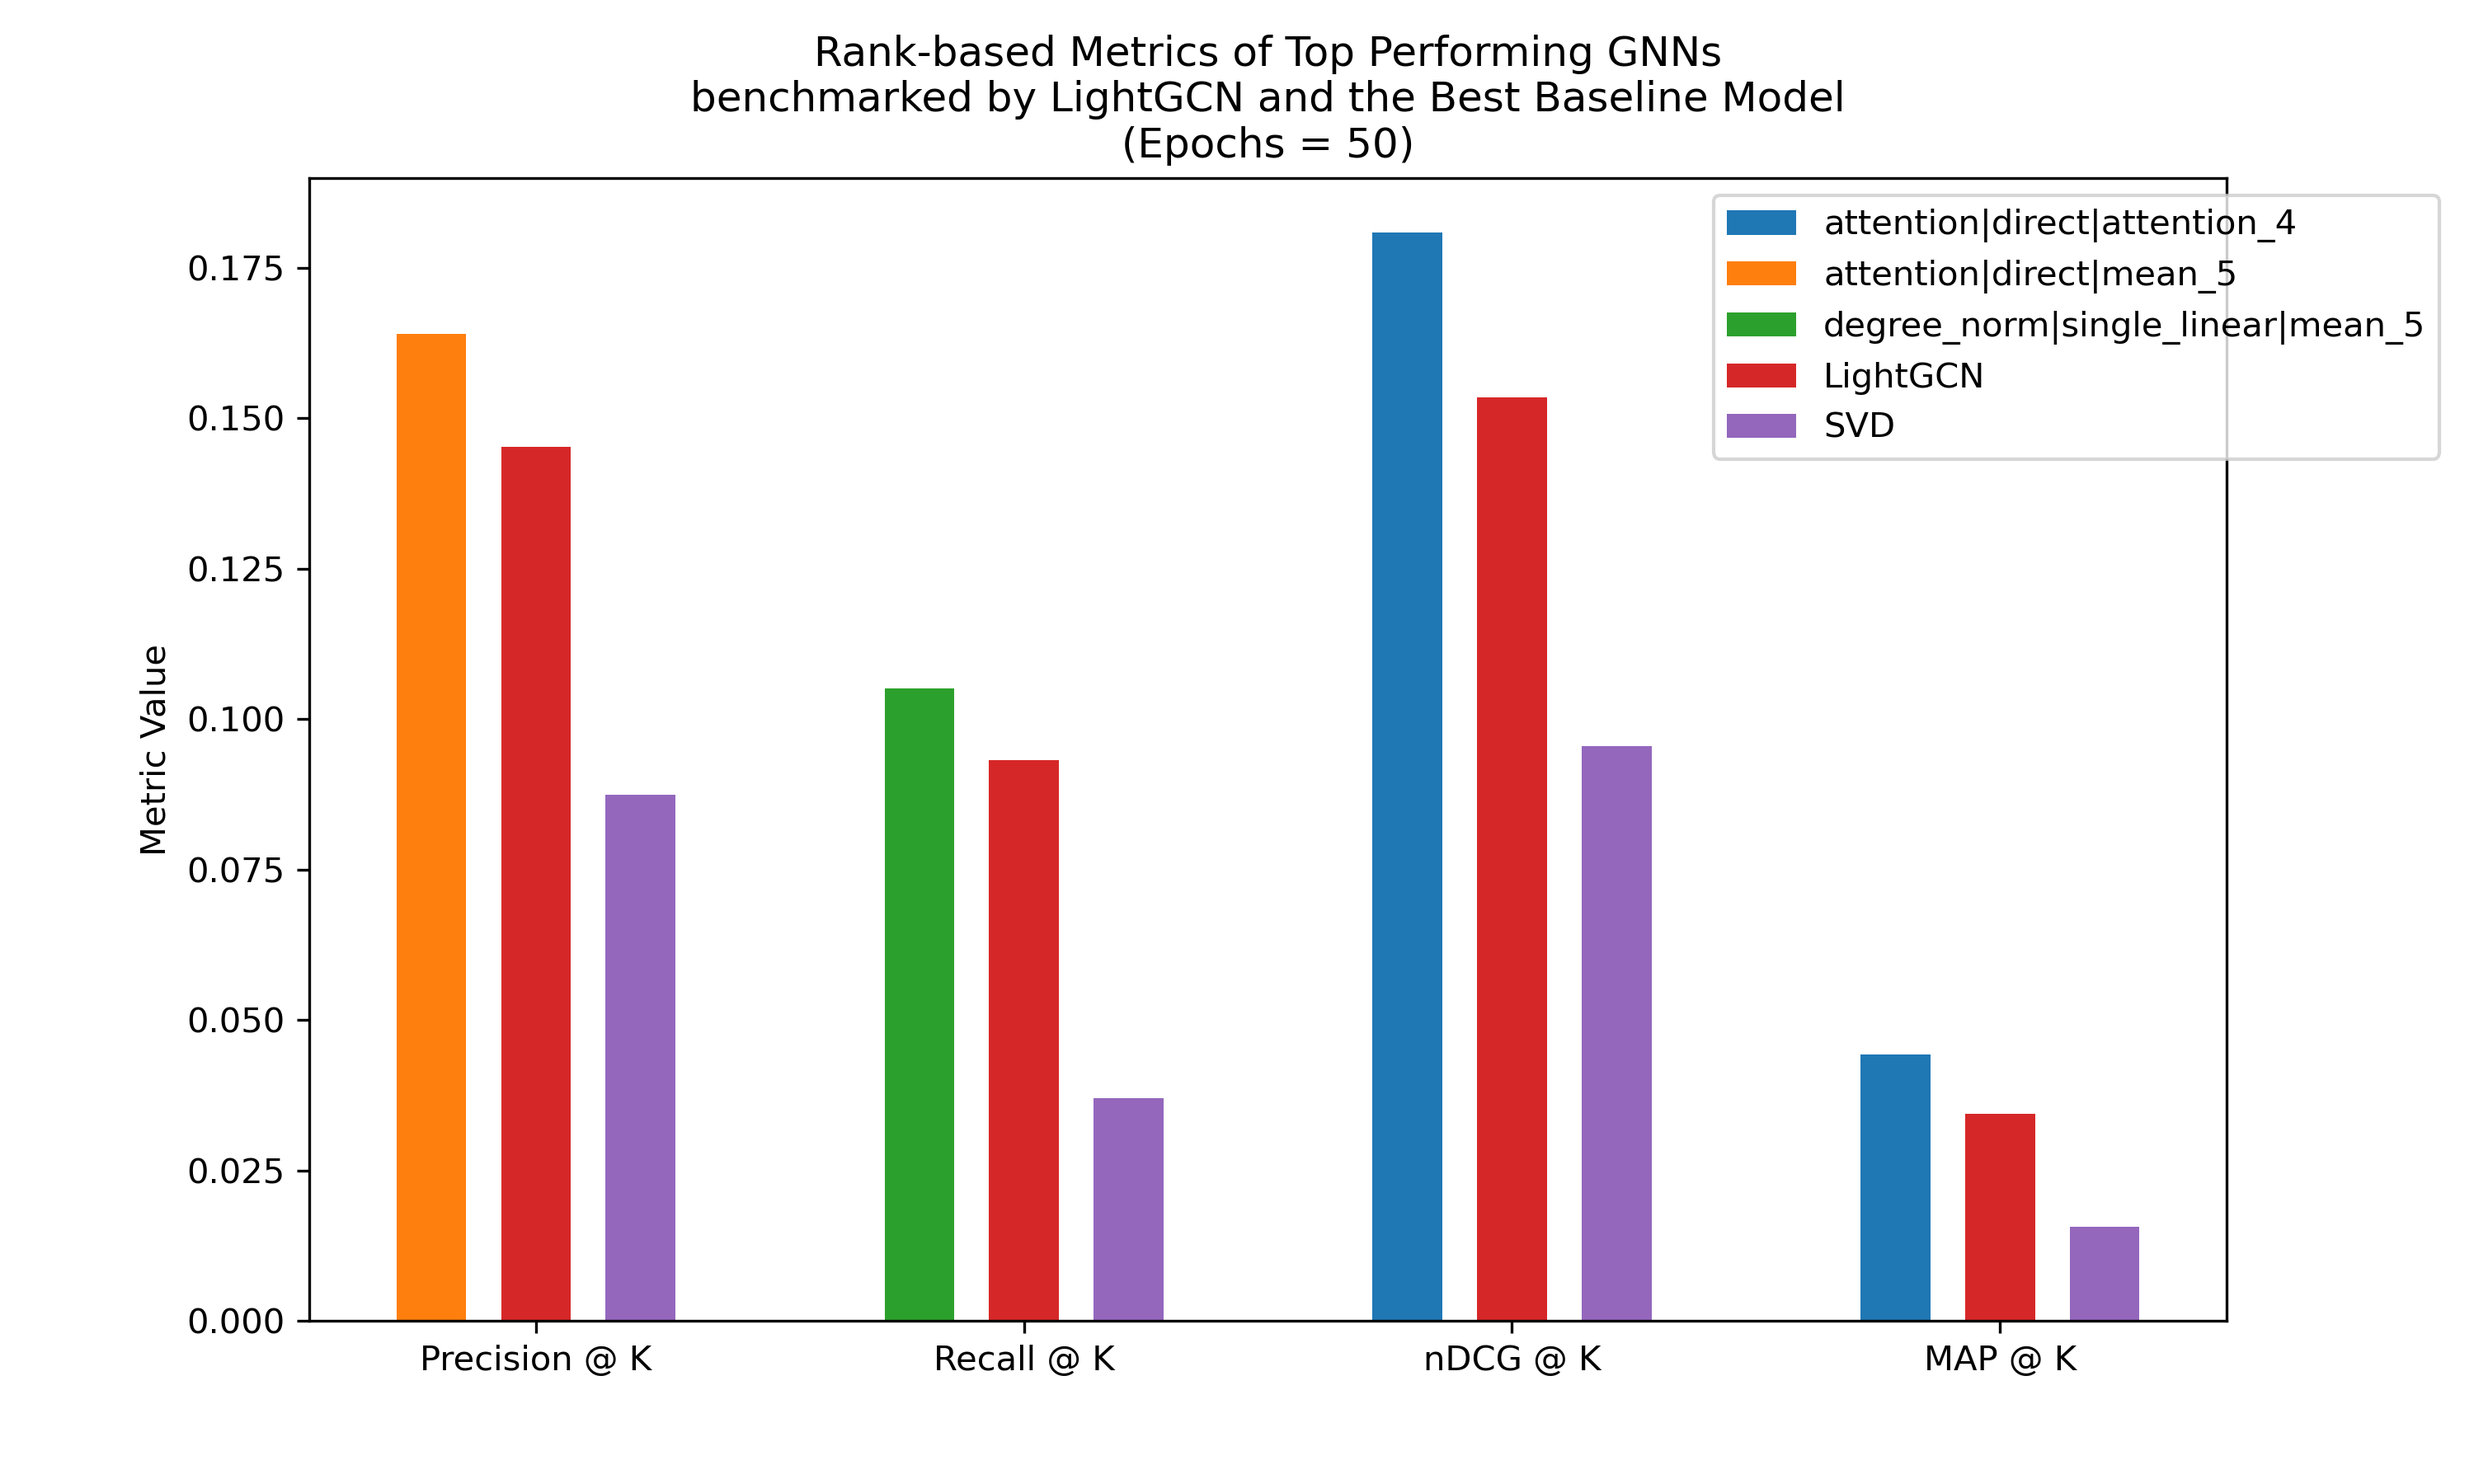
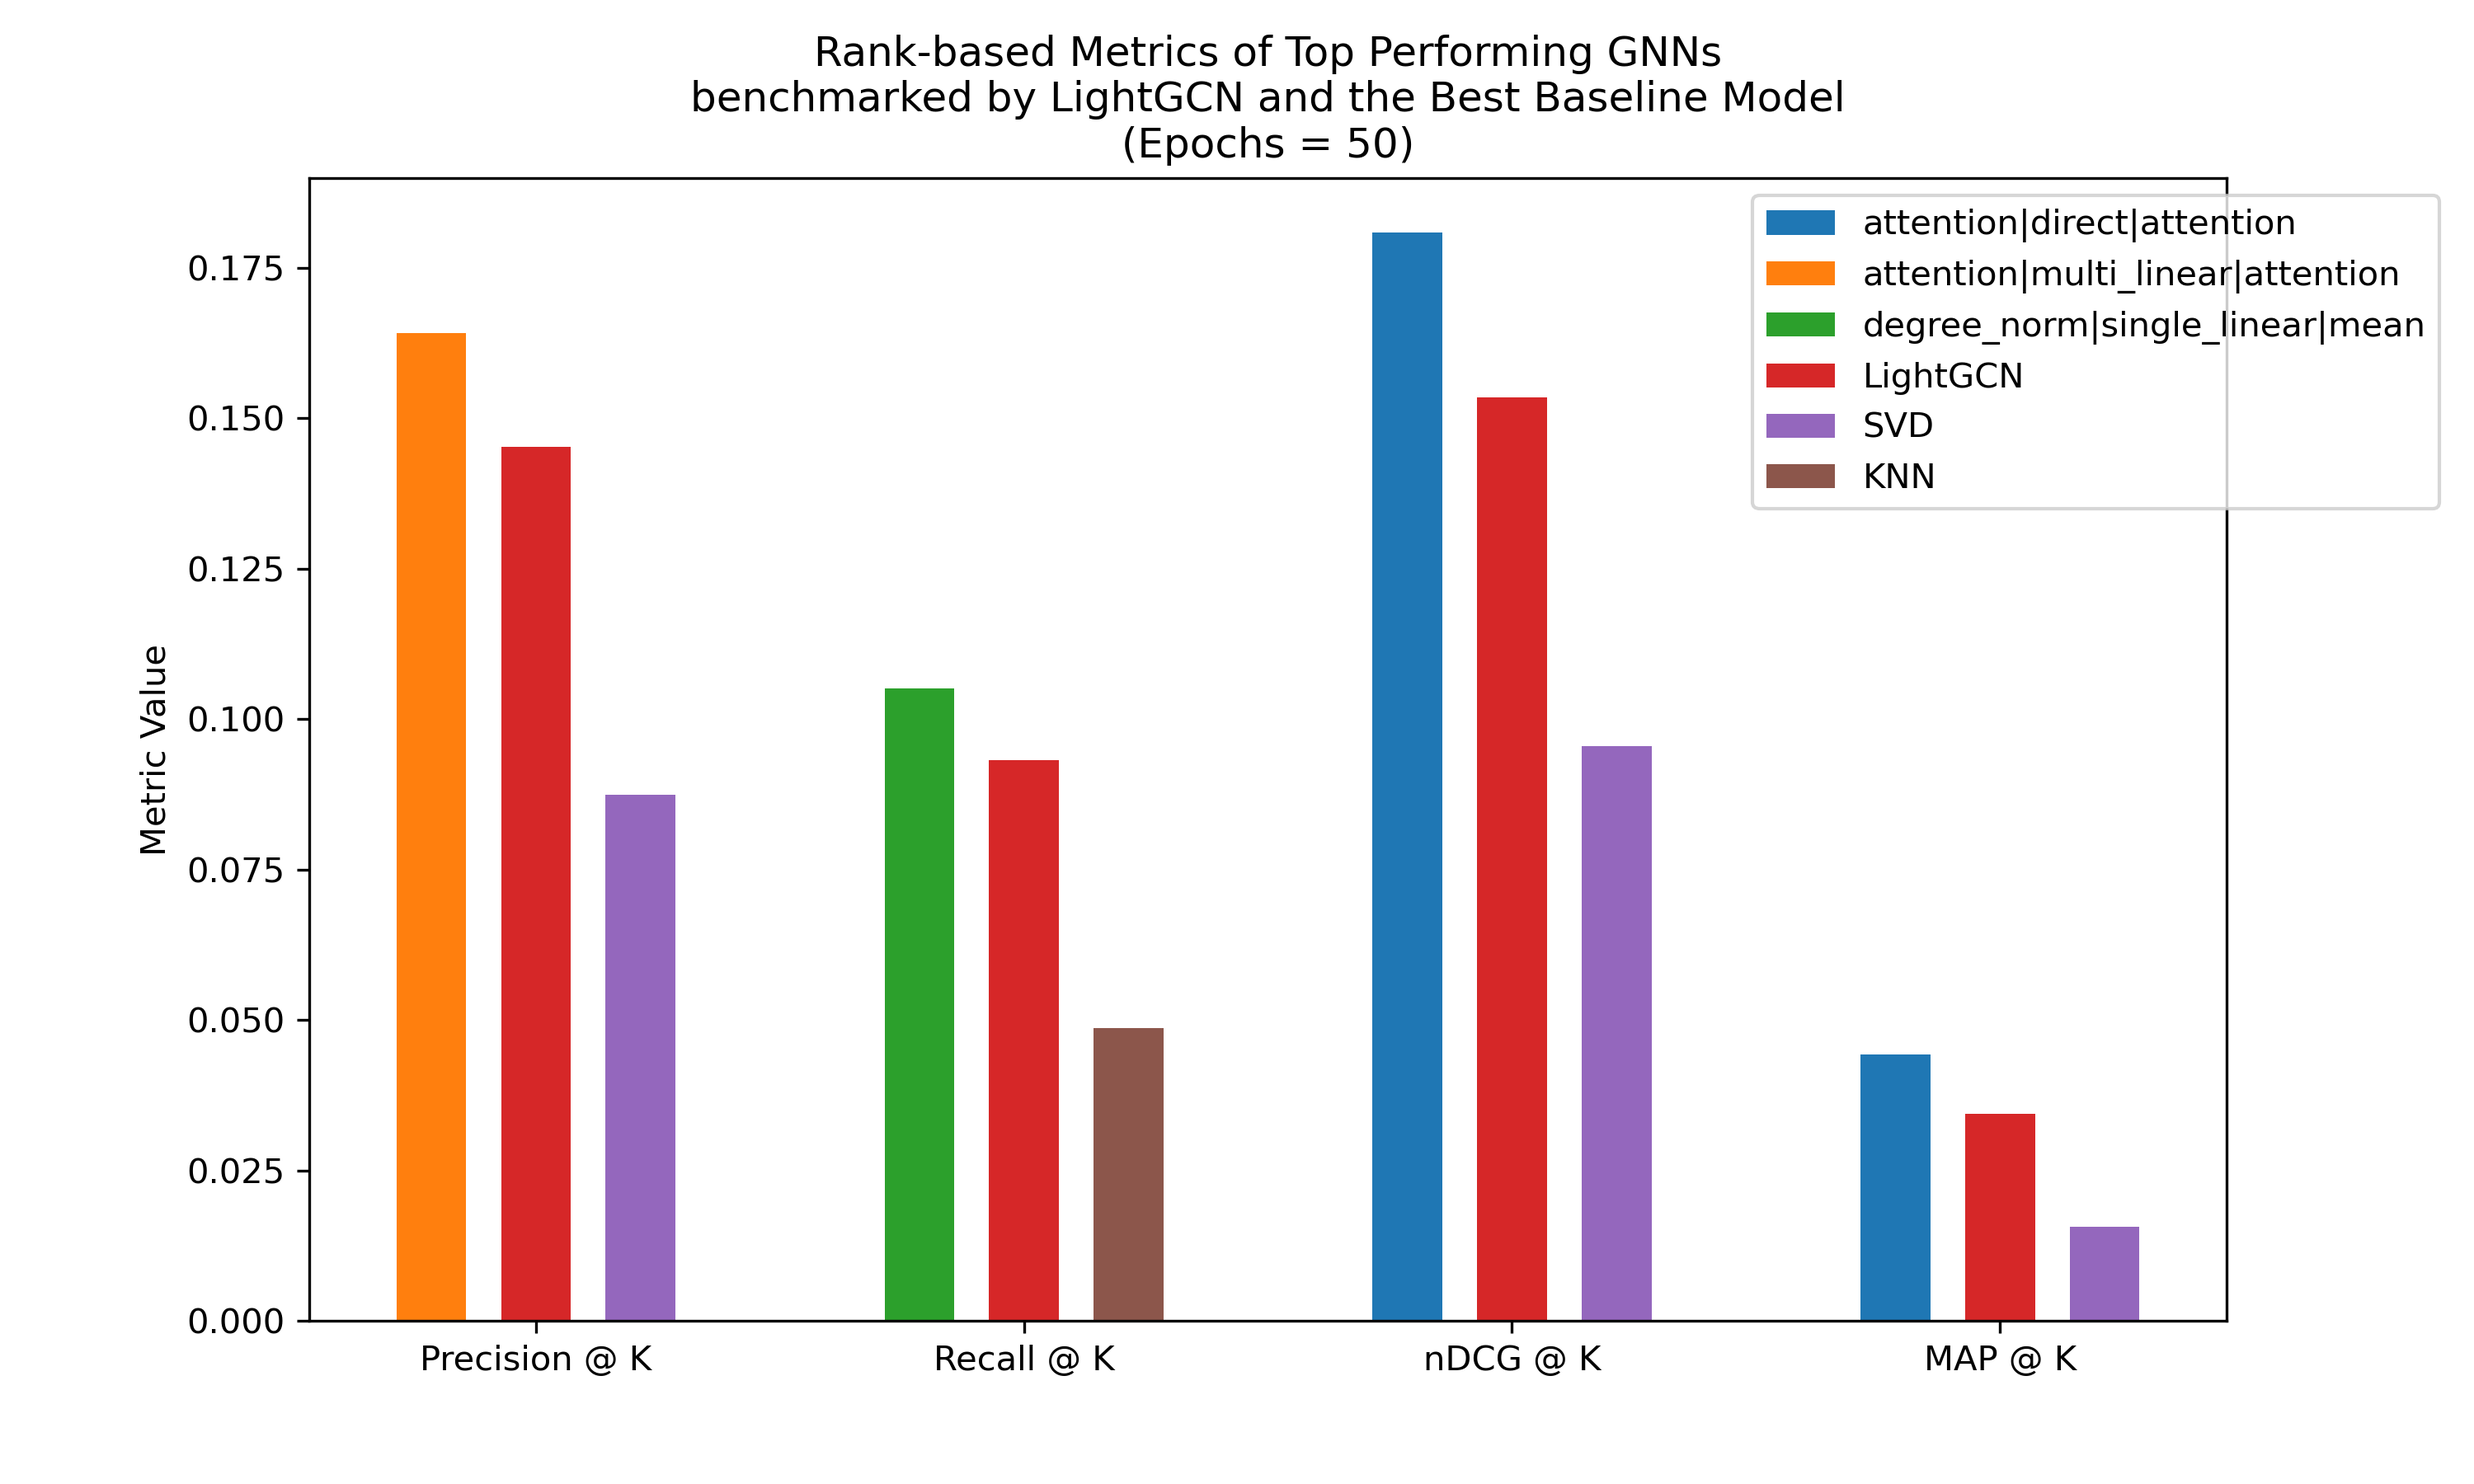
Implement plotting the best GNN alongside LightGCN and baseline & Minor visual improvements

Changed region(s): [[0.682, 0.1244, 0.992, 0.3422], [0.434, 0.6844, 0.496, 0.9022]]

diff --git a/gnn/plot.py b/gnn/plot.py
@@ -8,6 +8,13 @@ from heapq import heappush, heappop
 from copy import deepcopy
 
 
+_METRIC_DISPLAY_NAMES = ['Precision @ K', 'Recall @ K', 'nDCG @ K', 'MAP @ K']
+_METRIC_NAMES = ['precision', 'recall', 'ndcg', 'map']
+_METRIC_2_IDX = {name: idx for idx, name in enumerate(_METRIC_NAMES)}
+
+BASELINES = ['SVD', 'NMF', 'SlopeOne', 'KNNBa', 'NormalPredictor']
+
+
 def load_metrics(metrics_dir):
     metrics_files = [f for f in os.listdir(metrics_dir) if os.path.isfile(os.path.join(metrics_dir, f)) and f.endswith(".metrics")]
     model_2_metrics = {}
@@ -44,7 +51,6 @@ def get_best_baseline(model_2_metrics: Dict[str, Dict[str, float]]):
     """
     Returns a dict mapping from metric names to the best baseline model
     """
-    BASELINES = ['SVD', 'NMF', 'SlopeOne', 'KNNBasic', 'NormalPredictor']
     metric_2_best_baseline = dict()
     for model_name, metrics in model_2_metrics.items():
         if model_name in BASELINES:
@@ -73,6 +79,78 @@ def _ensure_and_get_unique_epoch(model_2_metrics: Dict[str, Dict[str, float]]):
     return unqiue_epoch
 
 
+def plot_best_models_and_baselines(
+    model_2_metrics: Dict[str, Dict[str, float]],
+    save_path=None
+):
+    model_2_metrics = deepcopy(model_2_metrics) # defensive copy
+    unique_epochs = _ensure_and_get_unique_epoch(model_2_metrics)
+    
+    x = np.arange(len(_METRIC_NAMES)) * 7  # the metric locations
+    metric_width = 2  # the width of each metric
+    bar_width = 1
+    
+    metric_2_best_model = get_top_models(model_2_metrics, n=1)
+    best_models = set([
+        model_name for _, [model_name] in metric_2_best_model.items()
+    ])
+    metric_2_all_best_models = defaultdict(list)
+    for best_model in best_models:
+        for metric_name in _METRIC_NAMES:
+            metric_2_all_best_models[metric_name].append(
+                (model_2_metrics[best_model][metric_name], best_model)
+            )
+    metric_2_sorted_models = {
+        metric_name: [model for _, model in sorted(models, key=lambda x: x[0], reverse=True)]
+        for metric_name, models in metric_2_all_best_models.items()
+    }
+    
+    fig, ax = plt.subplots()
+    fig.set_size_inches(10, 6)
+
+    delta = np.linspace(-metric_width, metric_width, len(best_models) + 2)
+    # plot the best models
+    colors = ['red', 'violet', 'blue']
+    for i, best_model in enumerate(best_models):
+        ax.bar(
+            x + np.array([delta[metric_2_sorted_models[metric_name].index(best_model)] for metric_name in _METRIC_NAMES]),
+            [model_2_metrics[best_model][metric_name] for metric_name in _METRIC_NAMES],
+            width=bar_width,
+            label=best_model[:-2],
+            color=colors[i]
+        )
+    # plot LightGCN
+    ax.bar(
+        x + delta[len(best_models)],
+        [model_2_metrics['degree_norm|direct|mean'][name] for name in _METRIC_NAMES],
+        width=bar_width,
+        label='LightGCN',
+        color='wheat'
+    )
+    # plot the best baseline
+    metric_2_best_baseline = get_best_baseline(model_2_metrics)
+    best_baseline_2_metrics = defaultdict(dict)
+    for metric_name, best_baseline in metric_2_best_baseline.items():
+        best_baseline_2_metrics[best_baseline][metric_name] = model_2_metrics[best_baseline][metric_name]
+    colors = ['lightgrey', 'darkgrey']
+    for i, (best_baseline, metrics) in enumerate(best_baseline_2_metrics.items()):
+        ax.bar(
+            np.array([x[_METRIC_2_IDX[metric_name]] for metric_name in metrics.keys()]) + delta[len(best_models) + 1],
+            [metric_value for metric_value in metrics.values()],
+            width=bar_width,
+            label=best_baseline if best_baseline != 'KNNBa' else 'KNN',
+            color=colors[i]
+        )
+    
+    ax.set_ylabel('Metric Value')
+    ax.set_title(f'Rank-based Metrics of the Best GNNs\nbenchmarked by LightGCN and the Best Baseline Model\n(Epochs = {unique_epochs})')
+    ax.set_xticks(x, _METRIC_DISPLAY_NAMES)
+    ax.legend(loc='upper right', bbox_to_anchor=(1.12, 1.0))
+    
+    if save_path is not None:
+        fig.savefig(save_path, dpi=300)
+
+
 def plot_top_models_and_baselines(
     model_2_metrics: Dict[str, Dict[str, float]],
     n = 3,
@@ -80,16 +158,11 @@ def plot_top_models_and_baselines(
 ):
     """Plots the top N GNNs, LightGCN, and the best baseline for each metric"""
     model_2_metrics = deepcopy(model_2_metrics) # defensive copy
-    
-    metric_display_names = ['Precision @ K', 'Recall @ K', 'nDCG @ K', 'MAP @ K']
-    metric_names = ['precision', 'recall', 'ndcg', 'map']
 
-    x = np.arange(len(metric_display_names)) * 7  # the metric locations
+    x = np.arange(len(_METRIC_NAMES)) * 7  # the metric locations
     width = (n + 2) / 2  # the width of each metric
     delta = np.linspace(-width, width, n + 2)
     bar_width = 1
-    
-    metric_2_idx = {metric: i for i, metric in enumerate(metric_names)}
     
     fig, ax = plt.subplots()
     fig.set_size_inches(10, 6)
@@ -110,32 +183,32 @@ def plot_top_models_and_baselines(
     # plot the top N GNNs performance
     for model, metrics in top_model_2_metrics.items():
         ax.bar(
-            np.array([x[metric_2_idx[metric_name]] for metric_name in metrics.keys()]) + np.array([delta[rank] for _, rank in metrics.values()]),
+            np.array([x[_METRIC_2_IDX[metric_name]] for metric_name in metrics.keys()]) + np.array([delta[rank] for _, rank in metrics.values()]),
             [metric_value for metric_value, _ in metrics.values()],
             width=bar_width,
-            label=model,
+            label=model[:-2],
         )
     
     # plot LightGCN performance
     ax.bar(
         x + delta[n],
-        [model_2_metrics['degree_norm|direct|mean'][name] for name in metric_names],
+        [model_2_metrics['degree_norm|direct|mean'][name] for name in _METRIC_NAMES],
         width=bar_width,
         label='LightGCN'
     )
     
-    #plot best baseline performance
+    # plot best baseline performance
     for best_baseline, metrics in best_baseline_2_metrics.items():
         ax.bar(
-            np.array([x[metric_2_idx[metric_name]] for metric_name in metrics.keys()]) + delta[n + 1],
+            np.array([x[_METRIC_2_IDX[metric_name]] for metric_name in metrics.keys()]) + delta[n + 1],
             [metric_value for metric_value in metrics.values()],
             width=bar_width,
-            label=best_baseline
+            label=best_baseline if best_baseline != 'KNNBa' else 'KNN'
         )
     
     ax.set_ylabel('Metric Value')
     ax.set_title(f'Rank-based Metrics of Top Performing GNNs\nbenchmarked by LightGCN and the Best Baseline Model\n(Epochs = {unique_epochs})')
-    ax.set_xticks(x, metric_display_names)
+    ax.set_xticks(x, _METRIC_DISPLAY_NAMES)
     ax.legend(loc='upper right', bbox_to_anchor=(1.12, 1.0))
     
     if save_path is not None:
@@ -182,15 +255,13 @@ def plot_metrics_by_algorithms(
     
     architectures = get_architectures(component)
     
-    metric_display_names = ['Precision @ K', 'Recall @ K', 'nDCG @ K', 'MAP @ K']
-    metric_names = ['precision', 'recall', 'ndcg', 'map']
     component_display_names = {
         'neighbor_aggregator': 'Neighbor Aggregator',
         'info_updater': 'Information Update',
         'final_node_repr': 'Final Node Representation'
     }
     
-    x = np.arange(len(metric_display_names)) * 8  # the metric locations
+    x = np.arange(len(_METRIC_NAMES)) * 8  # the metric locations
     metric_width = len(architectures) / 2  # the width of each metric
     bar_width = 1  # the width of each bar
     delta = np.linspace(-metric_width, metric_width, len(architectures))
@@ -204,14 +275,14 @@ def plot_metrics_by_algorithms(
         metrics = model_2_metrics[architecture]
         plt.bar(
             x + delta[i],
-            [metrics[name] for name in metric_names],
+            [metrics[name] for name in _METRIC_NAMES],
             width=bar_width,
             label=algorithm
         )
     
     ax.set_ylabel('Metric Value')
     ax.set_title(f'Rank-based Metrics of Algorithms in {component_display_names[component]}\n(Epochs = {unique_epochs})')
-    ax.set_xticks(x, metric_display_names)
+    ax.set_xticks(x, _METRIC_DISPLAY_NAMES)
     ax.legend(loc='upper right')
     
     if save_path is not None:
@@ -228,3 +299,4 @@ if __name__ == "__main__":
     plot_metrics_by_algorithms(model_2_metrics, component='neighbor_aggregator', save_path=f'{PLOT_DIR}/neighbor_aggregator.png')
     plot_metrics_by_algorithms(model_2_metrics, component='info_updater', save_path=f'{PLOT_DIR}/info_updater.png')
     plot_metrics_by_algorithms(model_2_metrics, component='final_node_repr', save_path=f'{PLOT_DIR}/final_node_repr.png')
+    plot_best_models_and_baselines(model_2_metrics, save_path=f'{PLOT_DIR}/best_models_and_baselines.png')
